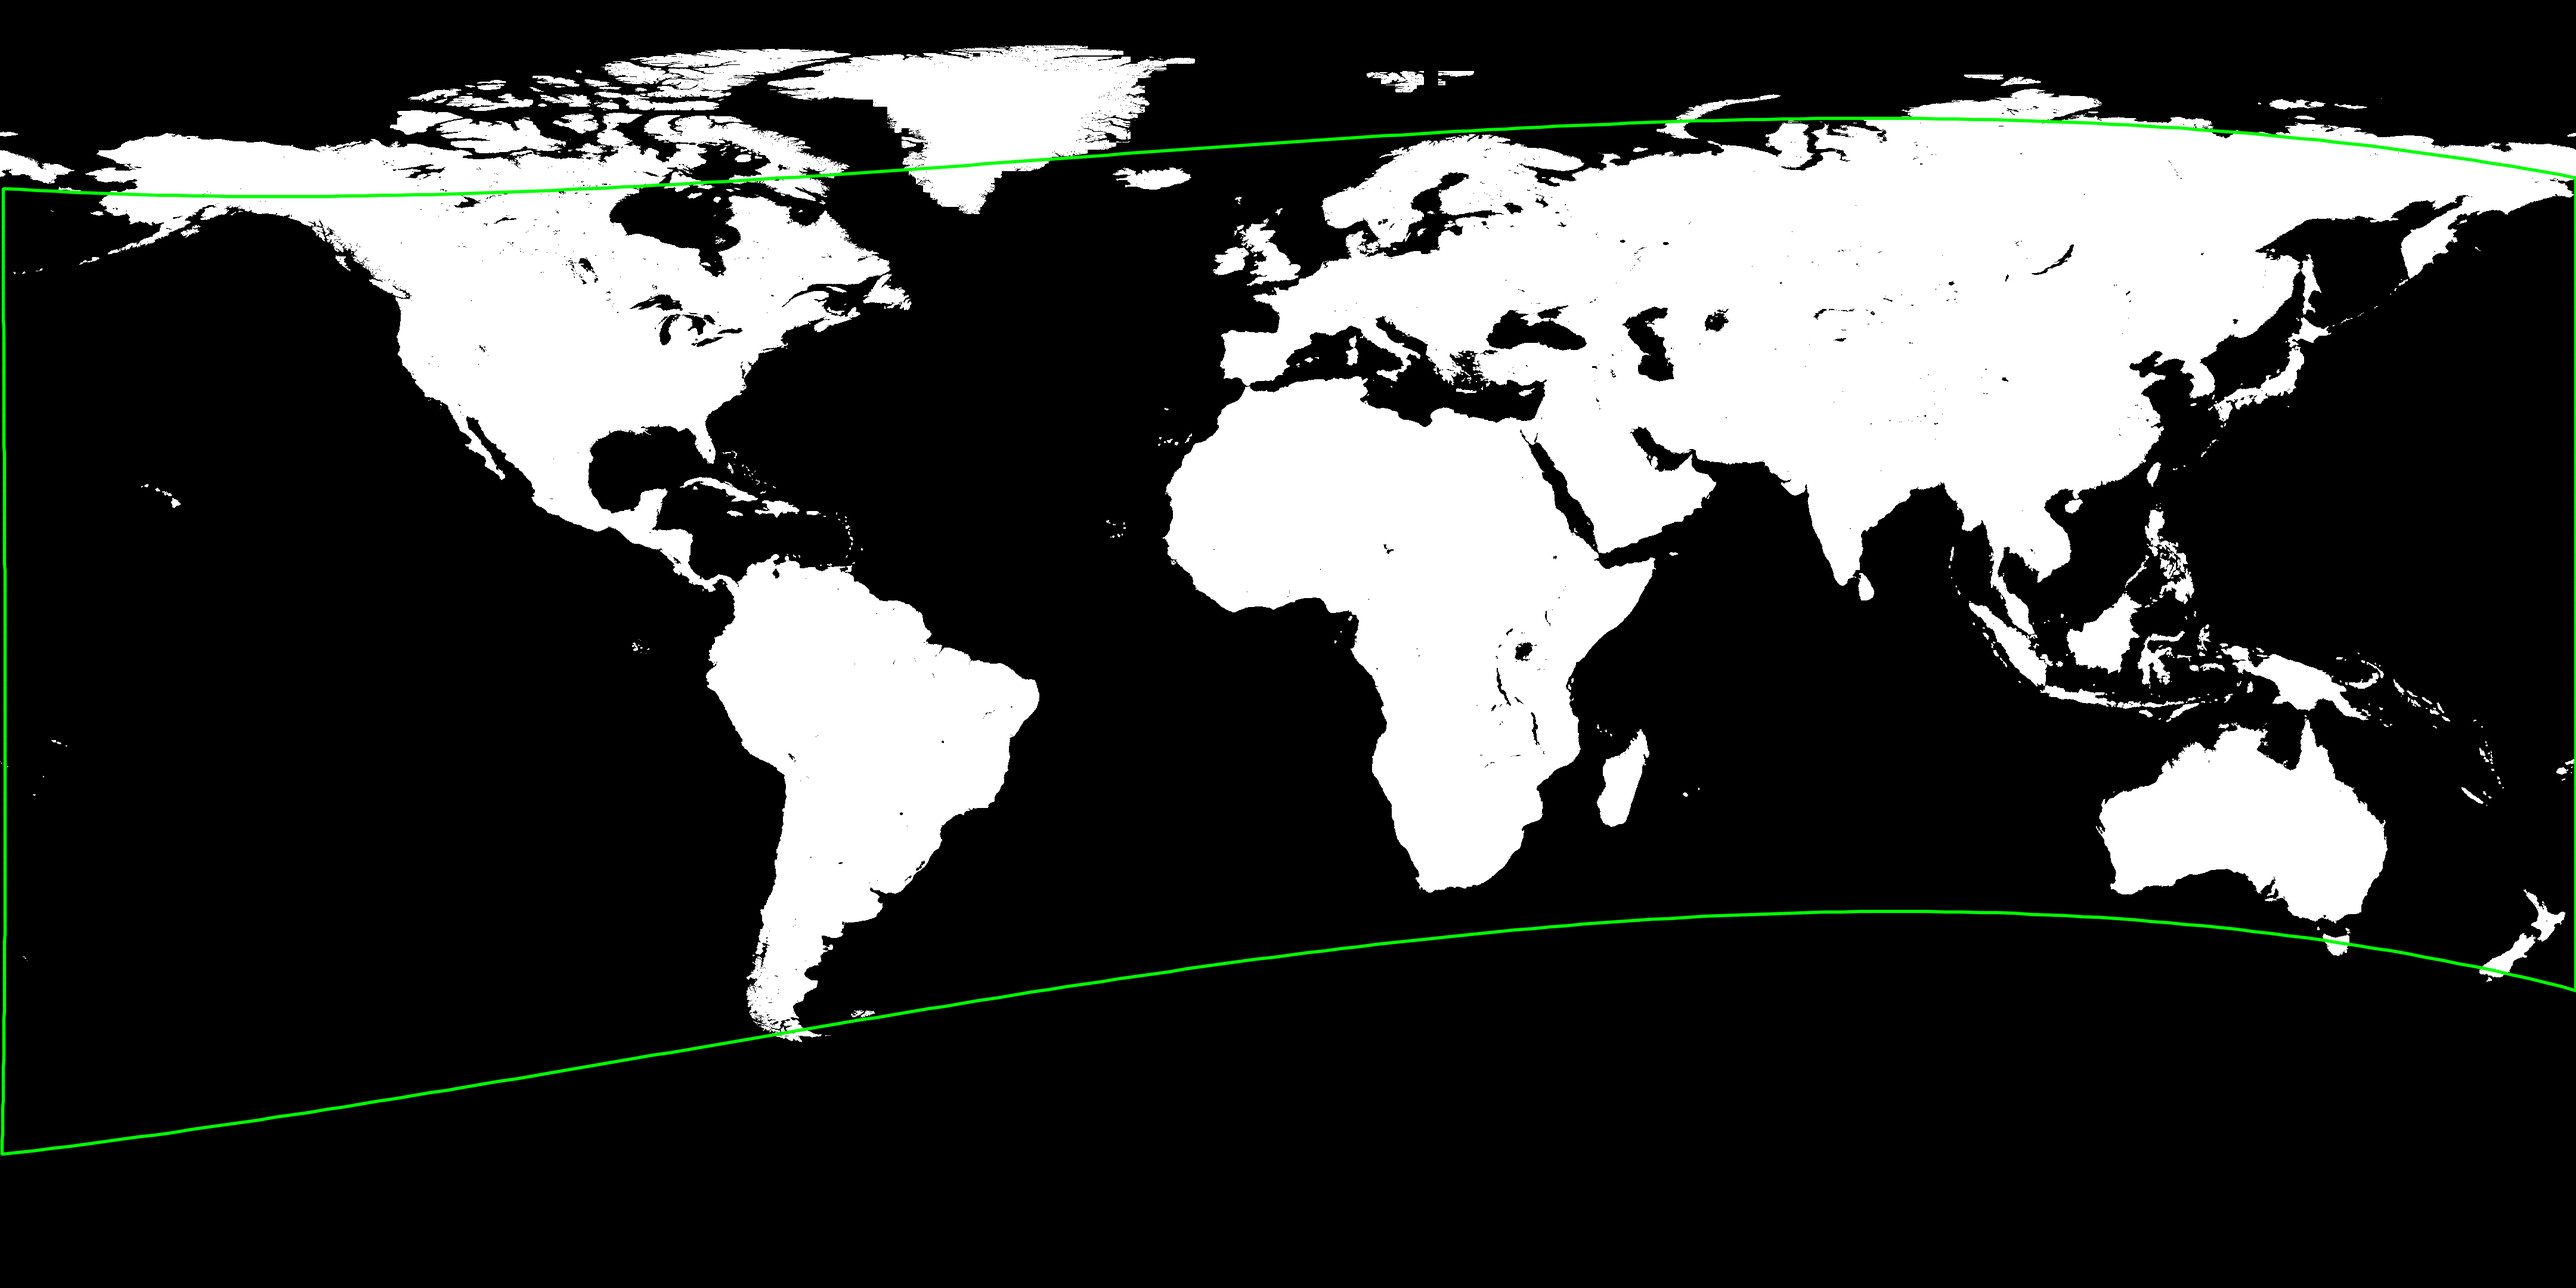
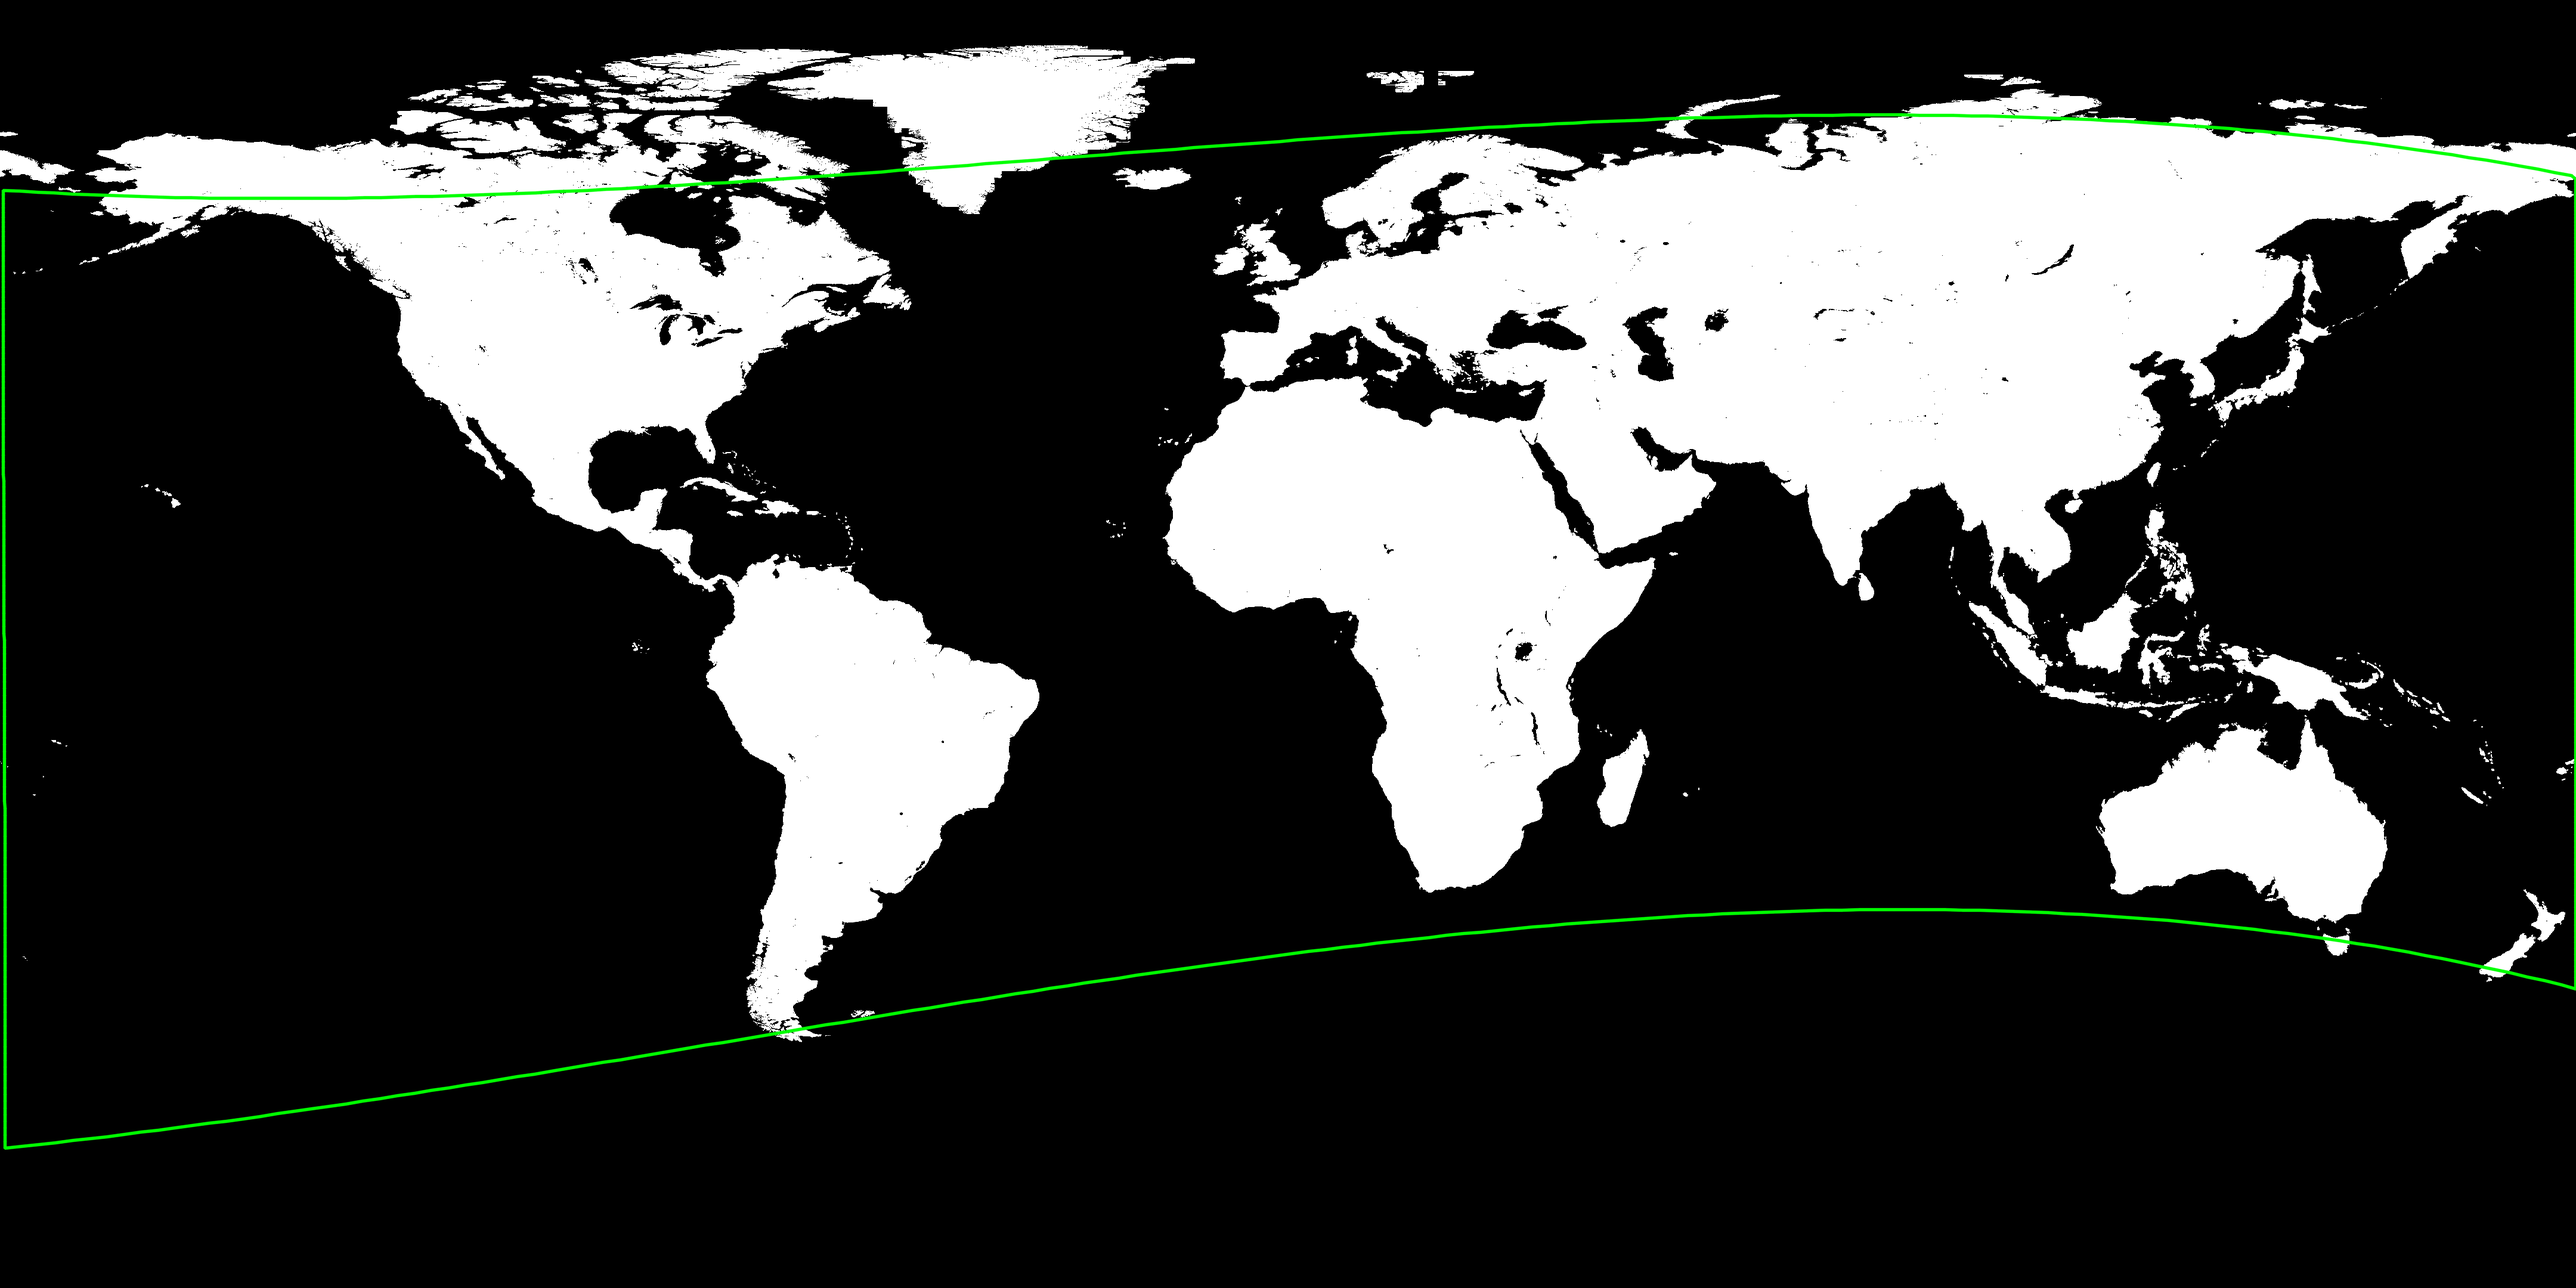
stash breaking changes ovrfit

diff --git a/deprojector_1.2/pipeline/C_mesh_warp.py b/deprojector_1.2/pipeline/C_mesh_warp.py
@@ -270,7 +270,6 @@ def mse_loss_poly(pred: torch.Tensor, target: torch.Tensor, poly_mask: torch.Ten
     if weight_map is not None: diff_sq = diff_sq * weight_map
     return diff_sq.sum() / poly_mask.sum().clamp(min=1.0)
 
-
 # ─────────────────────────────────────────────────────────────────────
 # 5. ENSEMBLE EVALUATION HELPERS
 # ─────────────────────────────────────────────────────────────────────
@@ -318,7 +317,6 @@ def eval_warp_at_points_np(P_query: np.ndarray, P_ref: np.ndarray, P_src: np.nda
         coeffs = L_inv @ np.vstack([P_src, np.zeros((3, 2))])
         
         return U @ coeffs[:N, :] + np.hstack([np.ones((len(P_query), 1)), P_query]) @ coeffs[N:, :]
-
 
 # ─────────────────────────────────────────────────────────────────────
 # 6. VISUALIZATION HELPERS
@@ -405,7 +403,6 @@ def show_displacement_quiver(P_init: np.ndarray, P_final: np.ndarray, title: str
     ax.invert_yaxis() 
     plt.show()
 
-
 # ─────────────────────────────────────────────────────────────────────
 # 7. MAIN SGD ENSEMBLE PIPELINE
 # ─────────────────────────────────────────────────────────────────────
@@ -467,7 +464,9 @@ def sgd_point_warp_polygon_constrained(
         y_grid, x_grid = torch.meshgrid(torch.arange(work_h_bbox, device=device), torch.arange(work_w_bbox, device=device), indexing='ij')
         nx = (x_grid / (work_w_bbox - 1)) * 2.0 - 1.0
         ny = (y_grid / (work_h_bbox - 1)) * 2.0 - 1.0
-        return (1.0 + penalty * torch.max(torch.abs(nx), torch.abs(ny))).unsqueeze(0).unsqueeze(0).float()
+        # Fix: Using Euclidean distance rather than L-infinity norm to avoid square diagonal gradients (star patterns)
+        dist = torch.clamp(torch.sqrt(nx**2 + ny**2), 0.0, 1.0)
+        return (1.0 + penalty * dist).unsqueeze(0).unsqueeze(0).float()
 
     # ── Phase 3 & 4: Ensemble Optimization Logic ───────
     def run_optimization(penalty_val: float, model_name: str) -> Tuple[np.ndarray, np.ndarray, np.ndarray]:
@@ -578,7 +577,6 @@ def sgd_point_warp_polygon_constrained(
     P_ref_A, P_src_A, w_mask_A_np = run_optimization(edge_penalty, "Model A (High Edge Penalty)")
     P_ref_B, P_src_B, w_mask_B_np = run_optimization(0.0, "Model B (No Edge Penalty)")
 
-
     # ── Phase 5: Smart Performance-Guided NMS & Blending ──────
     print("\n▸ Phase 5: Generating Performance-Guided Hybrid Mesh")
     
@@ -596,15 +594,15 @@ def sgd_point_warp_polygon_constrained(
     # 2. Performance Weight: 1 where A is better, 0 where B is better
     W_perf = err_B_sm / (err_A_sm + err_B_sm + 1e-8)
     
-    # 3. Spatial Prior Weight: 1 at edge, 0 at center
+    # 3. Spatial Prior Weight: 1 at edge, 0 at center (Fix: Euclidean distance eliminates diagonal artifacts)
     y_grid, x_grid = np.mgrid[0:work_h_bbox, 0:work_w_bbox]
-    nx = np.abs(x_grid - work_w_bbox/2) / (work_w_bbox/2)
-    ny = np.abs(y_grid - work_h_bbox/2) / (work_h_bbox/2)
-    W_spatial = np.maximum(nx, ny)
+    nx = (x_grid - work_w_bbox / 2.0) / (work_w_bbox / 2.0)
+    ny = (y_grid - work_h_bbox / 2.0) / (work_h_bbox / 2.0)
+    W_spatial = np.clip(np.sqrt(nx**2 + ny**2), 0.0, 1.0)
     
     # 4. Final Blend & Smoothstep (sharpen transitions)
-    W_A = 0.6 * W_perf + 0.4 * W_spatial
-    W_A = np.clip(W_A, 0, 1)
+    W_A = 0.8*W_perf + 0.2*W_spatial #0.6, 0.4 normally; 1.0 W_perf optimal overfit
+    W_A = np.clip(W_A, 0.0, 1.0)
     W_A = 3 * W_A**2 - 2 * W_A**3  # Smoothstep
     
     if show_plots:
@@ -659,7 +657,6 @@ def sgd_point_warp_polygon_constrained(
         
         show_points_mesh(P_ref_hybrid, ref_crop_rs, warp_mode, hybrid_simplices, f"Final Hybrid Mesh ({warp_mode.upper()})")
         show_displacement_quiver(P_init_hybrid, P_src_hybrid, "Hybrid Control Point Displacements")
-
 
     # ── Phase 6: Full-Resolution Application ──────────────────────
     print("\n▸ Phase 6: Rendering Full-Resolution Result from Hybrid Mesh")

diff --git a/deprojector_1.2/app.py b/deprojector_1.2/app.py
@@ -68,11 +68,11 @@ def executePipeline():
             extent_result=result,
             work_h_bbox=420,
             warp_mode="tps",   
-            levels=5,             
+            levels=4,             
             steps_per_lvl=1200,    
             lr_init=2.0,          
             lam_fold=0.5,          
-            dyn_points_per_level=48,          
+            dyn_points_per_level=128,          
             dyn_error_threshold=0.001,         
             dyn_min_dist=12,
             prune_interval=150,
